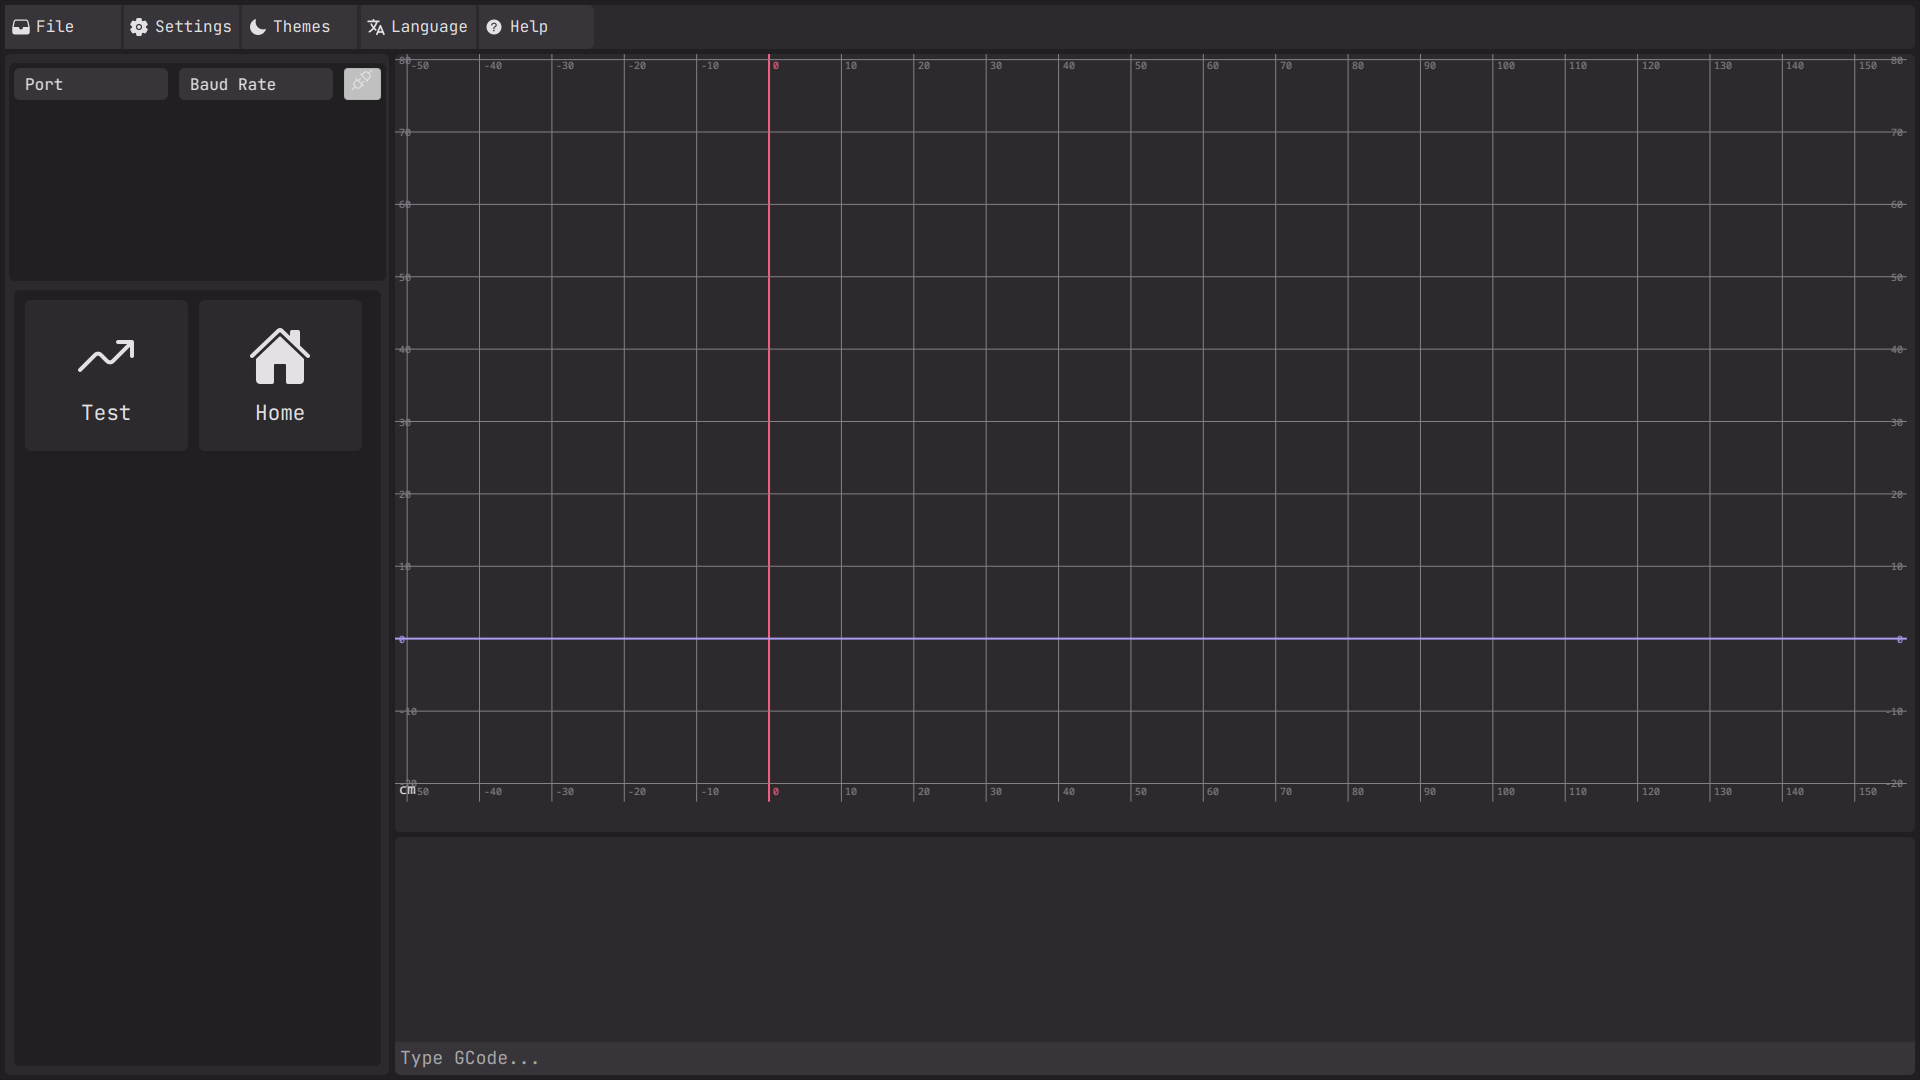
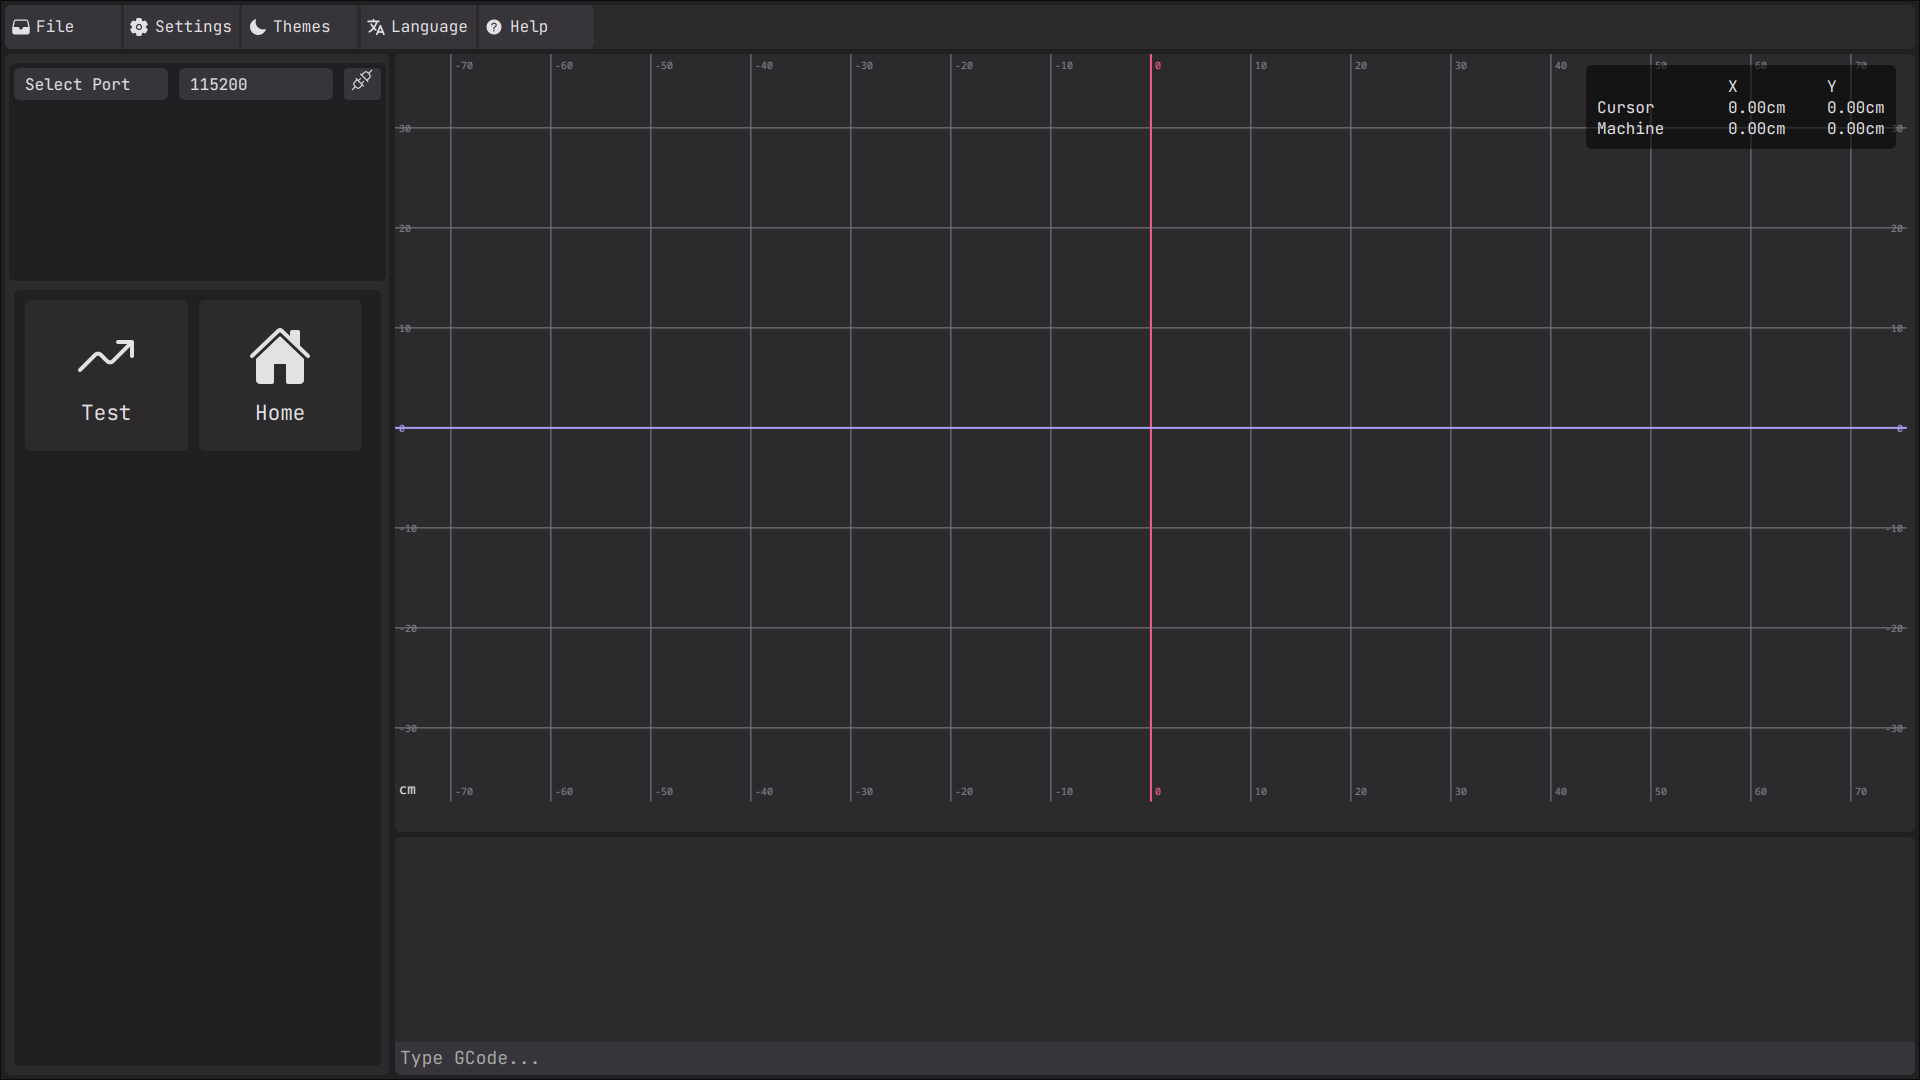
Colored connection button, fixed connected state being in Sidebar.tsx as its already in GRBLContext

diff --git a/frontend/src/sidebar/Sidebar.tsx b/frontend/src/sidebar/Sidebar.tsx
@@ -148,8 +148,7 @@ export default function Sidebar() {
     const {buttons} = useUI();
     const {handleContextMenu, close} = useContextMenu();
 
-    const {ports, baudrate, selectedPort, refreshPorts, disconnect, connect, setBaudrate, setSelectedPort} = useGRBL();
-    const [connected, setConnected] = useState(false);
+    const {ports, baudrate, selectedPort, connected, refreshPorts, disconnect, connect, setBaudrate, setSelectedPort} = useGRBL();
 
     const baudrates = [110, 300, 600, 1200, 2400, 4800, 9600, 14400, 19200, 38400, 57600, 115200, 128000, 230400, 256000, 460800, 921600]
 
@@ -160,7 +159,6 @@ export default function Sidebar() {
     const handleConnect = () => {
         if (connected) {
             disconnect();
-            setConnected(false);
             return;
         }
 
@@ -172,7 +170,6 @@ export default function Sidebar() {
             setSelectedPort(port.path);
 
             connect(port.path, rate);
-            setConnected(true);
         }
     };
 
@@ -211,7 +208,7 @@ export default function Sidebar() {
                             }}/>
                     })}
                 </Dropdown>
-                <button className={"btn"} onClick={() => handleConnect()}>
+                <button className={"btn"+(connected ? " connected" : " disconnected")} onClick={() => handleConnect()}>
                     {!connected ? <PiPlugsLight/> : <PiPlugsConnectedLight/>}
                 </button>
             </div>

diff --git a/frontend/src/sidebar/Sidebar.css b/frontend/src/sidebar/Sidebar.css
@@ -57,8 +57,9 @@
             }
 
             .btn {
-                min-width: 10%;
-                font-size: 1.5rem;
+                height: 100%;
+                aspect-ratio: 1/1;
+                flex: 0 0 auto;
 
                 border: none;
                 outline: none;
@@ -66,8 +67,38 @@
                 background: var(--bg-light);
                 border-radius: 4px;
 
+                display: flex;
+                justify-content: center;
+                align-items: center;
+
+                box-sizing: border-box;
+                font-size: 1.7rem;
+                font-weight: 1000;
+
+                &.disconnected {
+                    background: var(--bg-dark);
+                    path {
+                        color: var(--green);
+                        stroke-width: 8px;
+                    }
+                }
+
                 &:hover {
-                    background: var(--bg-highlight);
+                    background: var(--bg);
+                }
+
+                &.connected {
+                    background: var(--red);
+                    path {
+                        color: var(--bg-dark);
+                        stroke-width: 6px;
+                    }
+
+                    &:hover {
+                        path {
+                            color: var(--bg);
+                        }
+                    }
                 }
             }
         }

diff --git a/frontend/src/App.css b/frontend/src/App.css
@@ -10,6 +10,8 @@
 
         --red: #FF4444DD;
         --blue: #4444FFDD;
+        --green: #44FF66;
+        --yellow: #FFFF44;
     }
 
     &[data-theme="dark"] {
@@ -21,8 +23,10 @@
         --color: hsl(220, 100%, 98%);
         --color-muted: hsl(220, 50%, 92%);
 
-        --red: #FF4444DD;
-        --blue: #4444FFDD;
+        --red: #FF4444;
+        --blue: #4444FF;
+        --green: #44FF66;
+        --yellow: #FFFF44;
     }
 
     &[data-theme="dracula"] {
@@ -36,6 +40,8 @@
 
         --red: #FF5555;
         --blue: #BD93F9;
+        --green: #50FA7B;
+        --yellow: #F1FA8C;
     }
 
     &[data-theme="monokai"] {
@@ -49,6 +55,8 @@
 
         --red: #F85E84;
         --blue: #AB9DF2;
+        --green: #A9DC76;
+        --yellow: #E5C463;
     }
 
     --ruler-color: var(--color-muted);

diff --git a/src/main/resources/web/index.html b/src/main/resources/web/index.html
@@ -19,8 +19,8 @@
             document.documentElement.style.colorScheme = "dark";
         })();
     </script>
-  <script type="module" crossorigin src="./assets/index-CbpDtEr-.js"></script>
-  <link rel="stylesheet" crossorigin href="./assets/index-wPg3bXwK.css">
+  <script type="module" crossorigin src="./assets/index-DTgwcOhj.js"></script>
+  <link rel="stylesheet" crossorigin href="./assets/index-s3ntA_6c.css">
 </head>
 <body>
 <div id="root"></div>
